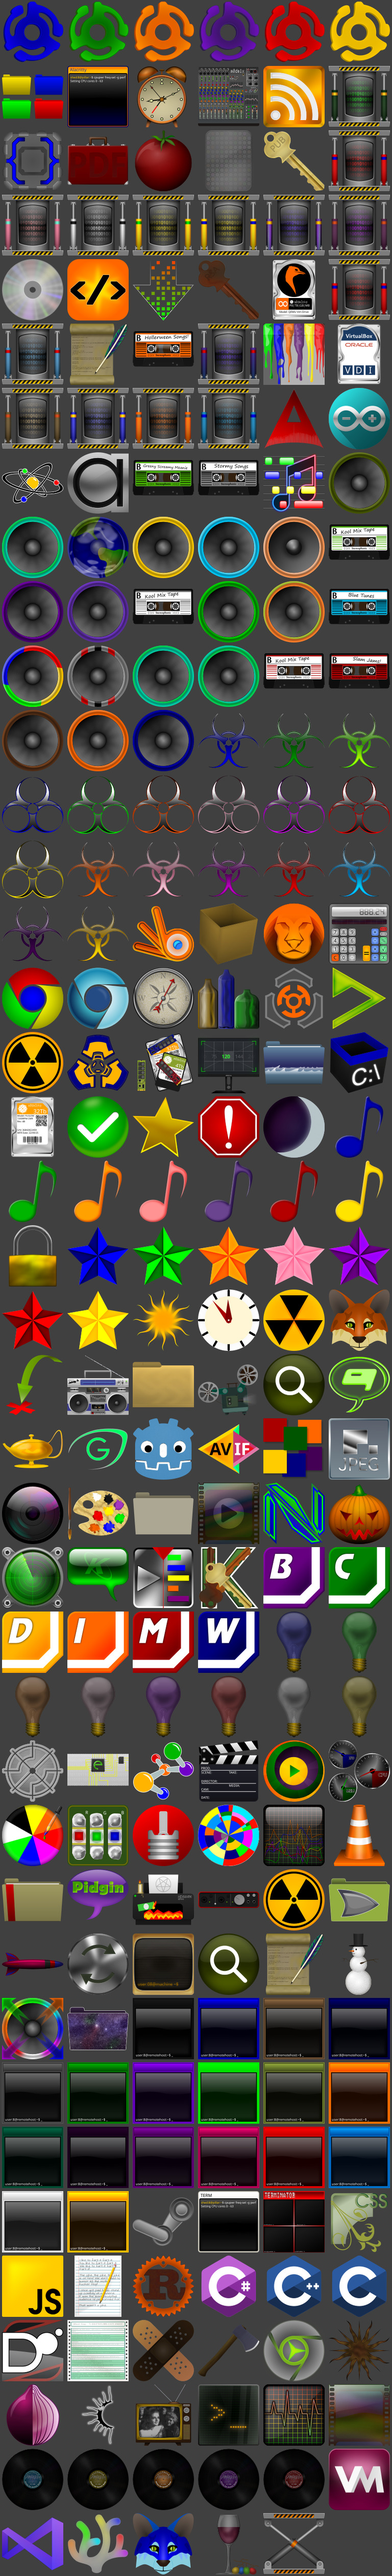
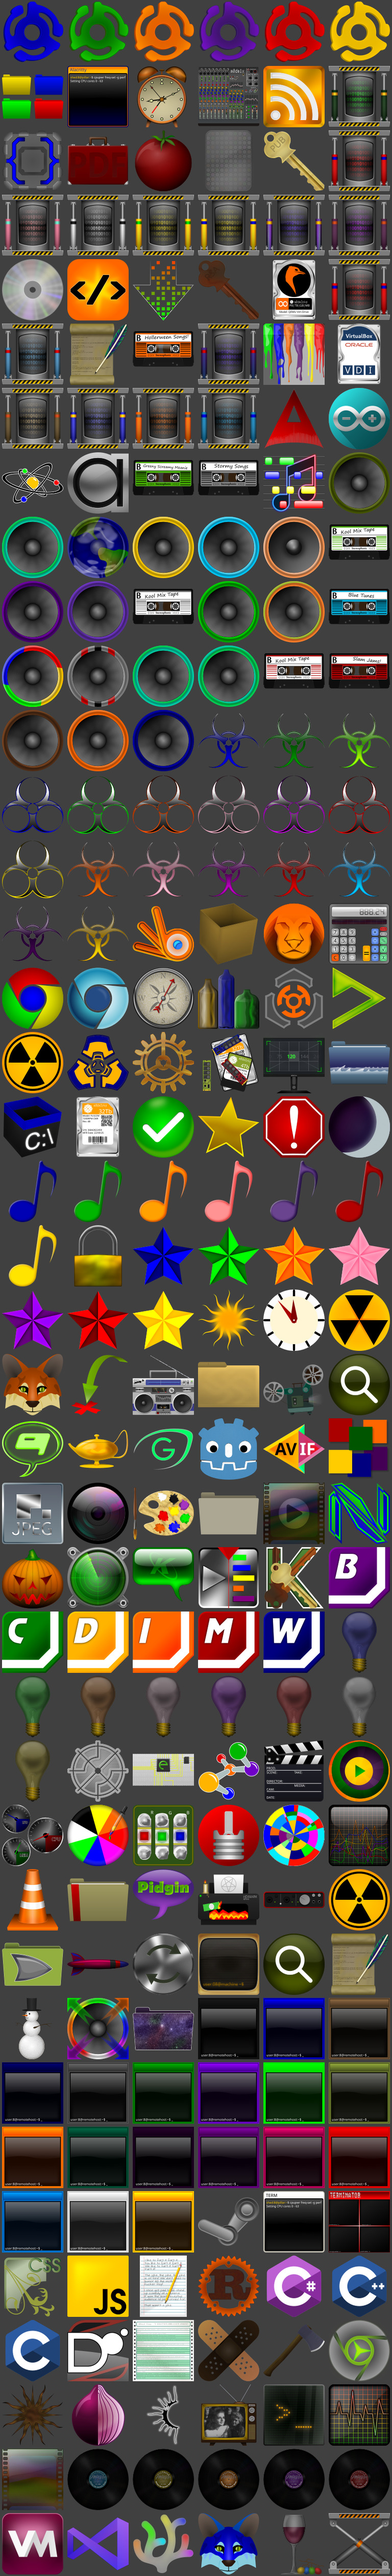
fixerupper Tue Feb 27 08:46:15 AM CST 2024

diff --git a/README.md b/README.md
@@ -4,7 +4,7 @@ Right now the state of the set is incomplete (possibly several thousand need to 
 
 Icons are supposed to be a visual representation of real world analogs but much of those represented items have become antiquated. Think of how many people that have no clue what the save icon is? (5.25" Disks) Who uses actual folders in real life anymore? Sadly most UI is still white background black text? WHY? It chews battery on mobile and strains your eyes! Because the real world analog was white paper and black or blue ink...That is an analog that can kindly die in a fire...possibly a fire started by the garbage printers that still perpetuate this along with various other evils. (The older I get the more "Stallman" I get...and Richard Stallman is to Tech what Vegans are to food.)
 
-739 icons total from 16x16 to 512x512. Fair warning my focus is for dark themes. While I typically focus on things I use, there are already a lot of things I don't use included in the set and I add to and update the collection frequently. I've removed the scalable simply because files that have text have not been converted to paths (for now.) (Small Preview Below)
+738 icons total from 16x16 to 512x512. Fair warning my focus is for dark themes. While I typically focus on things I use, there are already a lot of things I don't use included in the set and I add to and update the collection frequently. I've removed the scalable simply because files that have text have not been converted to paths (for now.) (Small Preview Below)
 
 # Installation
 Unzip / Decompress or clone the git to either ~/.local/share/icons or /usr/share/icons for system wide use.
